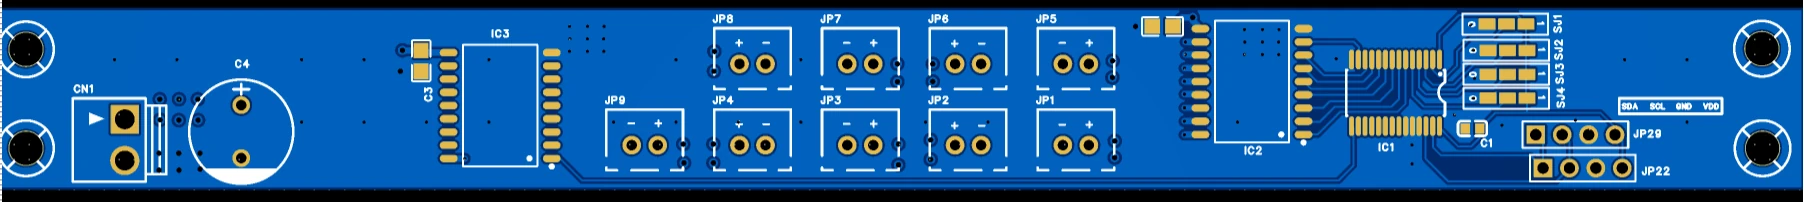
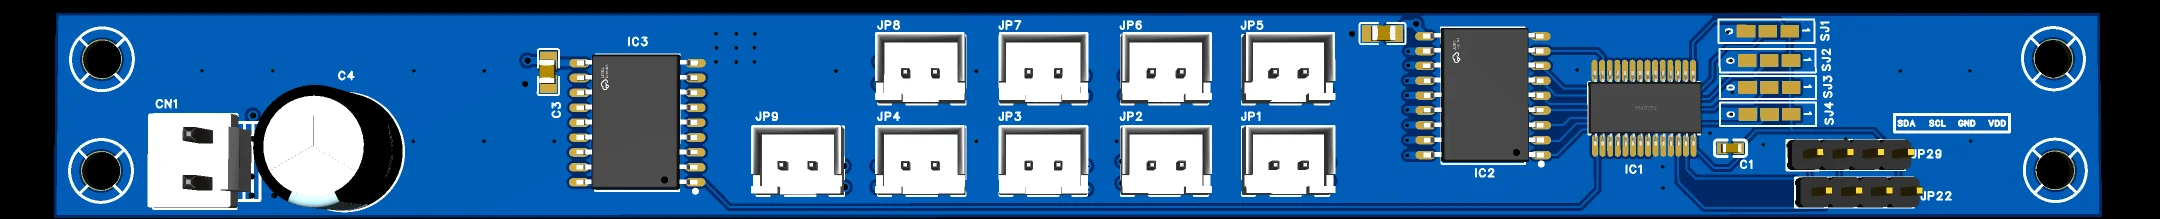
Swap chamber PCB layouts to 3D board renders and rewrite the BLDC intro.

diff --git a/index.html b/index.html
@@ -180,7 +180,7 @@
             <figcaption>Electromagnet control PCB schematic</figcaption>
           </figure>
           <figure class="large-image">
-            <img src="assets/micro-particle-chamber/images/electromagnet-control-layout.webp" alt="Electromagnet control PCB board layout" />
+            <img src="assets/micro-particle-chamber/images/electromagnet-control-layout.webp" alt="Electromagnet control PCB 3D board layout" />
             <figcaption>Electromagnet control PCB layout</figcaption>
           </figure>
           <figure>
@@ -188,7 +188,7 @@
             <figcaption>Power distribution PCB schematic</figcaption>
           </figure>
           <figure>
-            <img src="assets/micro-particle-chamber/images/power-distribution-layout.webp" alt="Power distribution PCB layout" />
+            <img src="assets/micro-particle-chamber/images/power-distribution-layout.webp?v=3d" alt="Power distribution PCB 3D board layout" />
             <figcaption>Power distribution PCB layout</figcaption>
           </figure>
         </div>
@@ -222,7 +222,7 @@
 
       <article id="bldc-motor" class="project-detail">
         <h4>Three-Phase Brushless DC Motor</h4>
-        <p><strong>EECE 531 Electromagnetic Field Theory course project.</strong> Design a small outer-rotor BLDC from CAD through a spinning prototype. I modeled the rotor, stator, stator base, and base ring in Fusion 360, exported STLs, and had the parts printed at Binghamton’s MakerLab.</p>
+        <p><strong>EECE 531 Electromagnetic Field Theory course project.</strong> I designed a small outer-rotor BLDC and built it into a spinning prototype. The rotor, stator, stator base, and base ring were modeled in Fusion 360, exported as STLs, and printed at Binghamton’s MakerLab.</p>
 
         <p>The rotor carries neodymium magnets in pockets around the inner rim. The stator has 12 coils, four per phase (A, B, C), so a rotating field from a three-phase brushless speed-controller board spins the magnet ring. Assembly was glue, magnet polarity, winding, and bringing it up on the bench with the controller. Fusion 360 archives and STL print files are on <a href="https://github.com/JFuentes0/three-phase-bldc-motor" target="_blank" rel="noopener">GitHub</a>.</p>
 
